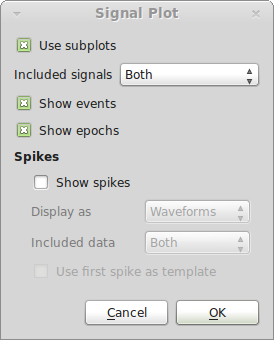
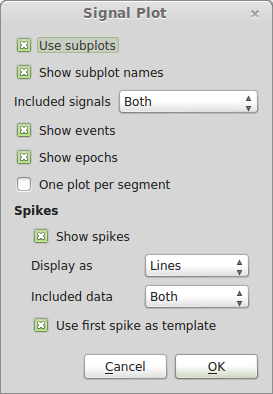
Signal plot can omit subplot titles

diff --git a/spykeviewer/plugins/Raw Data/signal.py b/spykeviewer/plugins/Raw Data/signal.py
@@ -4,11 +4,15 @@ from spykeutils import plot
 from copy import copy
 
 spike_prop = gui_data.ValueProp(False)
+subplot_prop = gui_data.ValueProp(False)
 
 class SignalPlotPlugin(analysis_plugin.AnalysisPlugin):
     """ Signal Plot
     """
-    subplots = gui_data.BoolItem('Use subplots', default=True)
+    subplots = gui_data.BoolItem('Use subplots', default=True).set_prop(
+        'display', store=subplot_prop)
+    subplot_titles = gui_data.BoolItem(
+        'Show subplot names', default=True).set_prop('display', active=subplot_prop)
     which_signals = gui_data.ChoiceItem('Included signals',
                                         ('AnalogSignal',
                                          'AnalogSignalArray', 'Both'),
@@ -104,6 +108,7 @@ class SignalPlotPlugin(analysis_plugin.AnalysisPlugin):
                          epochs=seg_epochs, spike_trains=seg_trains,
                          spikes=seg_spikes, use_subplots=self.subplots, 
                          show_waveforms=(self.spike_form==0),
+                         subplot_names=self.subplot_titles,
                          progress=current.progress)
             
             if not self.multiple_plots:

diff --git a/spykeviewer/ui/main_window.py b/spykeviewer/ui/main_window.py
@@ -750,8 +750,8 @@ class MainWindow(QMainWindow, Ui_MainWindow):
         except Exception, e:
             QMessageBox.critical(self, 'Error loading selection',
                                  str(e).decode('utf8'))
-            #logger.warning('Error loading selection:\n' +
-            #               traceback.format_exc() + '\n')
+            logger.warning('Error loading selection:\n' +
+                           traceback.format_exc() + '\n')
         finally:
             self.progress.done()
             self.populate_selection_menu()

diff --git a/doc/source/plugins.rst b/doc/source/plugins.rst
@@ -4,13 +4,8 @@ Plugins
 =======
 
 This section describes the configuration options of the plugins that are
-included with Spyke Viewer. All included plugins create plots. They will
-automatically use only the first selected object if using the whole selection
-would require multiple plot windows (e.g. the signal plot plugin will only
-create a plot for the first selected segment).
-
-For information on how to create your own plugins, see
-:ref:`analysisplugins`.
+included with Spyke Viewer. All included plugins create plots. For
+information on how to create your own plugins, see :ref:`analysisplugins`.
 
 Signal Plot
 -----------
@@ -22,6 +17,10 @@ additional information in the plot.
 Use Subplots
   Determines whether multiple subplots are used or all signals are shown in
   one large plot.
+
+Show subplot names
+    Only valid when subplots are used. Determines if each subplot has a title
+    with the signal name (if available) or the recording channel name.
 
 Included signals
   This option can be used to tune which type of signals are shown:
@@ -37,6 +36,11 @@ Show events
 Show epochs
   When this is checked, periods in the selected trial will be shown in the
   plot.
+
+One plot per segment
+    When this is not checked, only one plot with signals from the first
+    selected segment is created. Otherwise, one plot for each selected
+    segment is created.
 
 Show spikes
   Determines whether spikes are included in the plot. The following options
